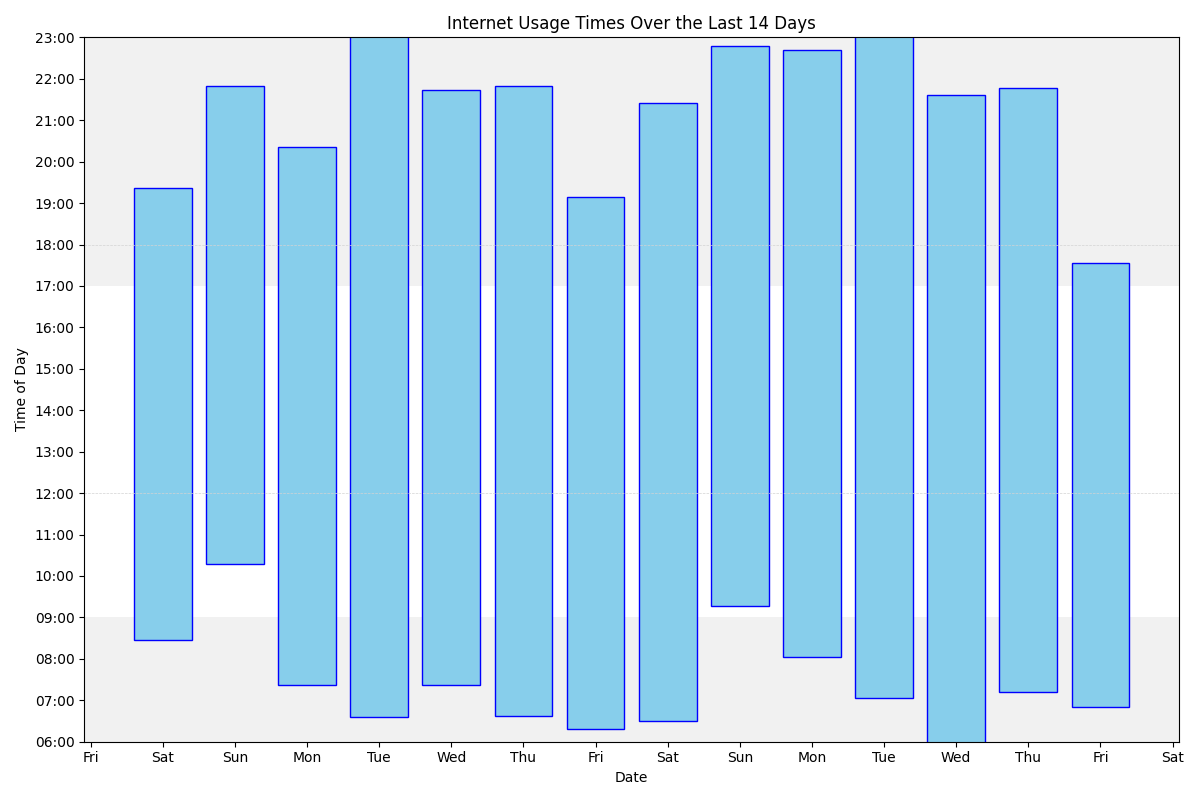
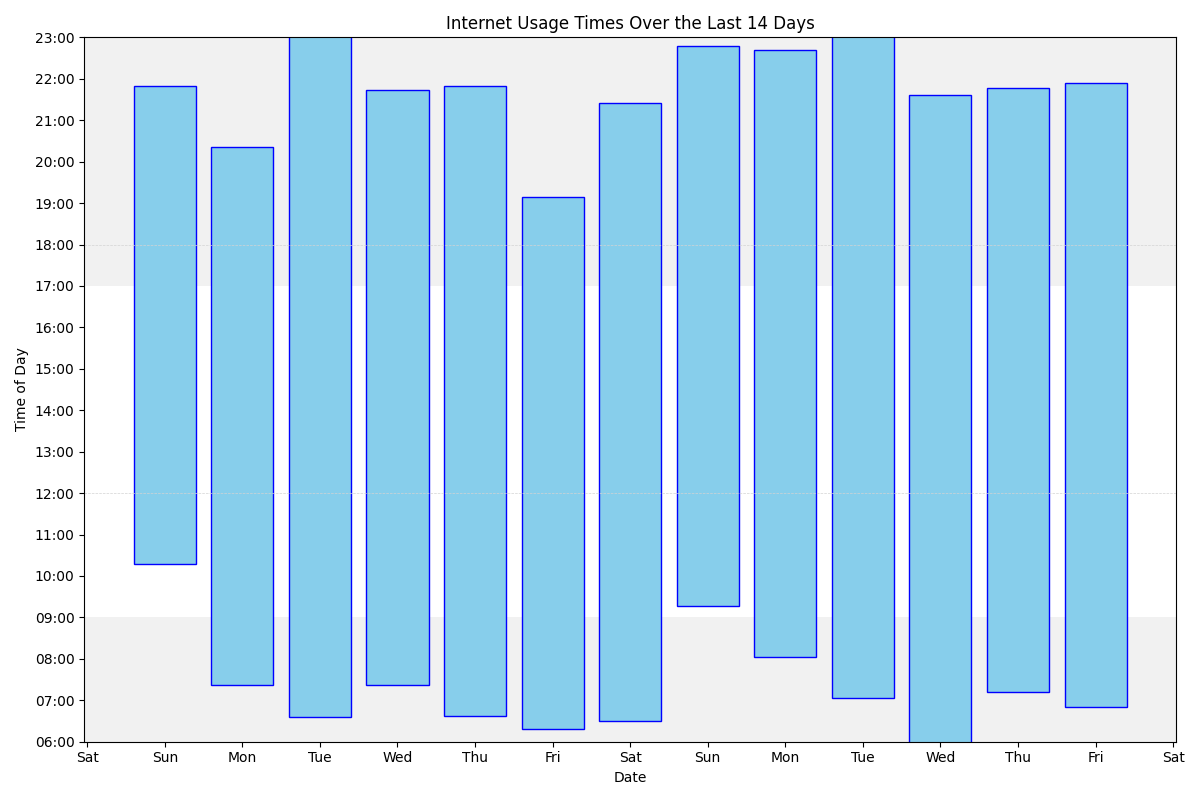
Update

diff --git a/index.md b/index.md
@@ -71,9 +71,9 @@ With number of accesses/minutes in parentheses
 <ol><li>www.google.com (3062)</li>
 <li>mail.google.com (2629)</li>
 <li>outlook.office.com (2583)</li>
-<li>docs.google.com (1985)</li>
-<li>www.reddit.com (1577)</li>
-<li>outlook.office365.com (1575)</li>
+<li>docs.google.com (1986)</li>
+<li>www.reddit.com (1580)</li>
+<li>outlook.office365.com (1576)</li>
 <li>bsky.app (1506)</li>
 <li>www.facebook.com (1403)</li>
 <li>duckduckgo.com (1068)</li>
@@ -82,10 +82,10 @@ With number of accesses/minutes in parentheses
 <li>www.theguardian.com (685)</li>
 <li>calendar.google.com (506)</li>
 <li>www.linkedin.com (477)</li>
-<li>moodle.royalholloway.ac.uk (474)</li>
+<li>moodle.royalholloway.ac.uk (476)</li>
 <li>rhul-my.sharepoint.com (473)</li>
 <li>github.com (416)</li>
-<li>login.microsoftonline.com (407)</li>
+<li>login.microsoftonline.com (409)</li>
 <li>tvtropes.org (398)</li>
 <li>gmail.com (383)</li>
 <li>web.whatsapp.com (326)</li>
@@ -105,6 +105,25 @@ With number of accesses/minutes in parentheses
 <ul></ul>
 
 <H3>Friday, 30/05/25</H3>
+
+<br>
+
+<ul><li> 21:53 www.temu.com</li>
+<li> 21:39 docs.google.com</li>
+<li> 21:38 www.reddit.com</li>
+<li class='same'> 21:36 www.reddit.com</li>
+<li class='same'> 21:35 www.reddit.com</li>
+<li> 21:34 moodle.royalholloway.ac.uk</li>
+<li> 21:34 login.microsoftonline.com</li>
+<li> 21:33 moodle.royalholloway.ac.uk</li>
+<li> 21:33 login.microsoftonline.com</li>
+<li> 21:32 outlook.office365.com</li>
+</ul>
+
+<br>
+
+<ul><li> 19:32 <a href="https://www.theguardian.com/uk">Latest news, sport and opinion from the Guardian</a></li>
+</ul>
 
 <br>
 
@@ -269,7 +288,8 @@ With number of accesses/minutes in parentheses
 
 <br>
 
-<ul><li> 09:32 www.parents.com</li>
+<ul><li> 09:36 www.parents.com</li>
+<li class='same'> 09:32 www.parents.com</li>
 </ul>
 
 <br>
